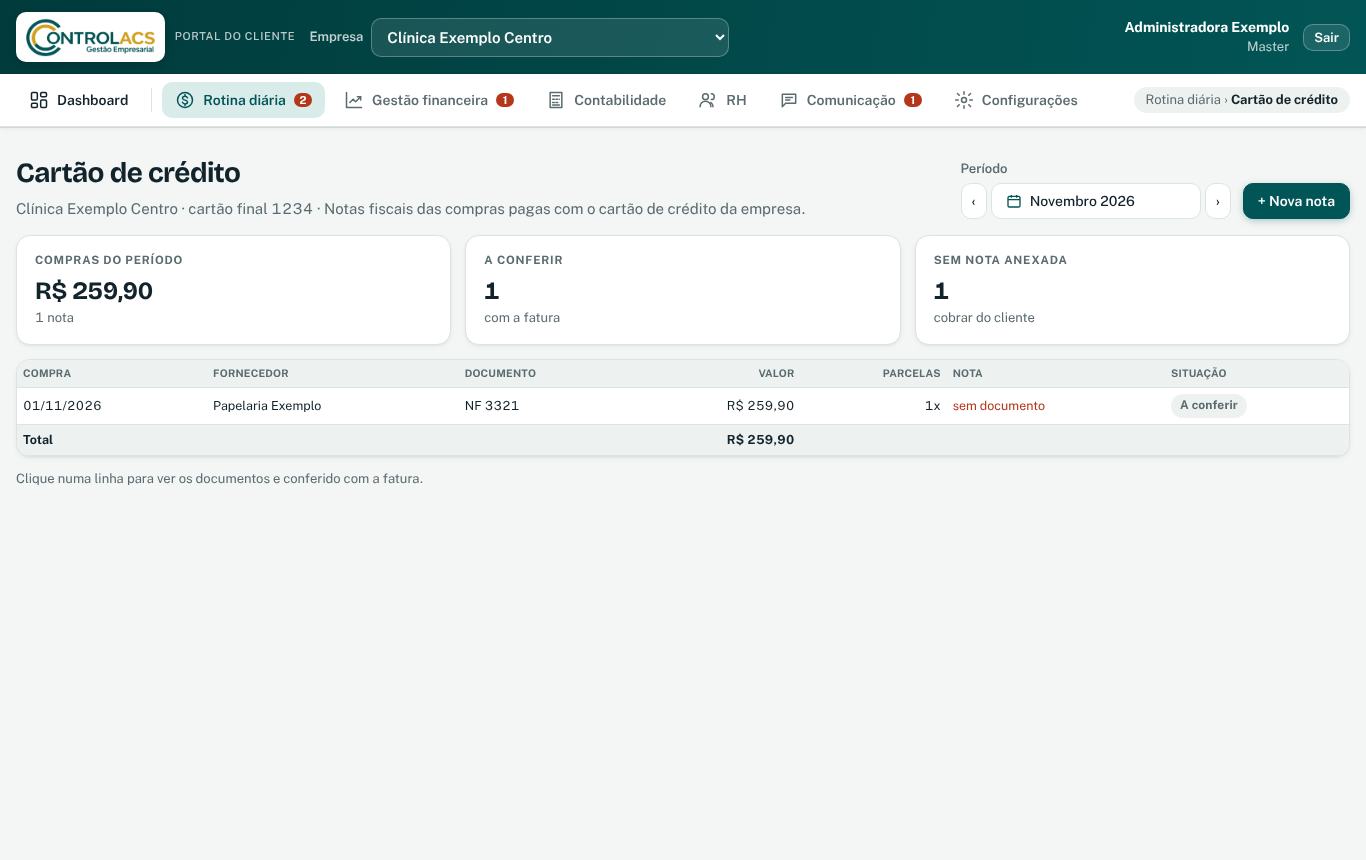
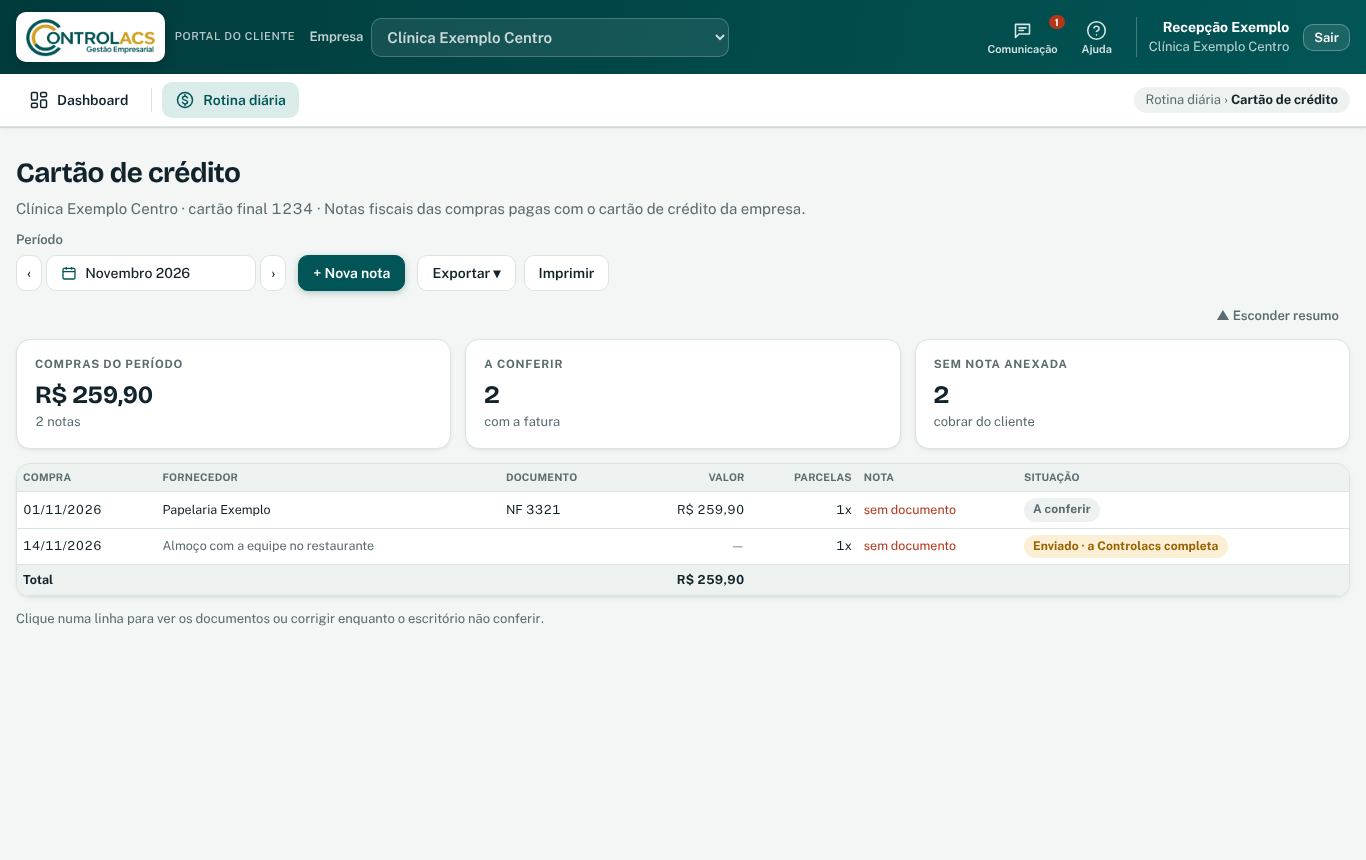
Cartão de crédito: envio simples pelo cliente (só a nota/cupom e a descrição)
Data, fornecedor, nº, valor e parcelas ficam opcionais para o cliente; a fatura
só traz notas com valor. Novidades e Manual atualizados.

Claude-Session: https://claude.ai/code/session_018HCFQnt7a9XNEbxXwtv9qF

diff --git a/index.html b/index.html
@@ -3402,7 +3402,8 @@ const MODCFG={
 };
 let MOD=null, REGS=[], DOCS={}, REG=null, RDOCS=[];
 // envio simples dos boletos e notas a pagar: vale para quem não é do escritório, em todas as empresas
-const pagSimples=()=>MOD==='pagar'&&!ehEsc();
+// cartão de crédito também (Carol, 16/11): o cliente só anexa a nota ou o cupom e diz do que se trata
+const pagSimples=()=>(MOD==='pagar'||MOD==='cartao')&&!ehEsc();
 const SIMP_DICA='Diga do que se trata a despesa: o que foi comprado ou qual serviço, de quem e de qual mês ou parcela, se souber. Isso ajuda a Controlacs a achar a conta certa.';
 const dBRv=s=>s?dBR(s):'—';
 const mFiltro=$('mFiltro');
@@ -3465,7 +3466,7 @@ async function renderMod(){
     tiles=[['A pagar',fm(sum(ab)),ab.length+' conta'+(ab.length===1?'':'s')],['Vencem em 7 dias',fm(sum(sem)),sem.length+' conta'+(sem.length===1?'':'s')],['Vencidas',fm(sum(venc)),venc.length?'pague ou fale com o cliente':'nenhuma'],['Pagas',fm(sum(REGS.filter(r=>r.conferido))),f==='aberto'?'escolha um mês para ver':f==='todos'?'de tudo o que foi enviado':'no mês']];
   }else if(MOD==='cartao'){
     head='<tr><th>Compra</th><th class="l">Fornecedor</th><th class="l">Documento</th><th>Valor</th><th>Parcelas</th><th class="l">Nota</th><th class="l">Situação</th></tr>';
-    body=REGS.map(r=>`<tr class="click" data-id="${r.id}" tabindex="0"><td>${dBR(r.data)}</td><td class="l">${esc(r.fornecedor)}${empC(r)}</td><td class="l">${esc(r.documento)}</td><td>${fm(r.valor)}</td><td>${r.parcelas}x</td><td class="l">${clip(r)}</td><td class="l">${r.conferido?'<span class="chip c-done">✓ Conferido</span>':'<span class="chip c-none">A conferir</span>'}</td></tr>`).join('');
+    body=REGS.map(r=>`<tr class="click" data-id="${r.id}" tabindex="0"><td>${dBR(r.data)}</td><td class="l">${r.fornecedor?esc(r.fornecedor):`<span class="muted">${esc(r.sobre||'—')}</span>`}${empC(r)}</td><td class="l">${esc(r.documento||'')}</td><td>${r.valor==null?'<span class="muted">—</span>':fm(r.valor)}</td><td>${r.parcelas}x</td><td class="l">${clip(r)}</td><td class="l">${r.conferido?'<span class="chip c-done">✓ Conferido</span>':r.valor==null?'<span class="chip c-warn" title="A Controlacs confere com a fatura e completa o valor">Enviado · a Controlacs completa</span>':'<span class="chip c-none">A conferir</span>'}</td></tr>`).join('');
     foot=REGS.length?`<tr><td>Total</td><td></td><td></td><td>${fm(sum(REGS))}</td><td colspan="3"></td></tr>`:'';
     tiles=[['Compras do período',fm(sum(REGS)),REGS.length+' nota'+(REGS.length===1?'':'s')],['A conferir',String(REGS.filter(r=>!r.conferido).length),'com a fatura'],['Sem nota anexada',String(REGS.filter(r=>!nd(r)).length),'cobrar do cliente']];
   }else{
@@ -3560,14 +3561,15 @@ async function openReg(r,pre){
     if(tp==='contaDest')return `<label class="f" data-dep>${lab.replace(' (opcional)','')}<input data-k="${k}" list="contasDest" value="${esc(r?v(k)||'':regCli()?.conta_deposito_bc||'')}" placeholder="Ex.: Sicredi - MPA Palmas"${dis}></label><datalist id="contasDest">${[...new Set([regCli()?.conta_deposito_bc,...REGS.map(x=>x.conta_destino),...MAPA.map(m=>m.conta)].filter(Boolean))].map(c=>`<option value="${esc(c)}">`).join('')}</datalist>`;
     // boleto: colar a linha digitável (ou anexar o PDF) preenche valor e vencimento; a chave da NF-e vai junto, escondida
     if(tp==='linha')return `<label class="f wide">${lab}<input data-k="${k}" inputmode="numeric" value="${esc(v(k)||'')}" placeholder="Cole aqui, ou anexe o boleto em PDF, que o valor e o vencimento são preenchidos sozinhos"${dis}><input type="hidden" data-k="nfe_chave" value="${esc(r?.nfe_chave||'')}"></label>${simp?'':'<div class="note wide" id="rLeitura" style="margin-top:-6px"></div>'}`;
-    if(tp==='sobre')return simp?`<label class="f wide">${lab}<textarea data-k="${k}" rows="2" placeholder="Ex.: conta de luz de outubro da loja; material de limpeza; conserto do ar-condicionado da recepção"${dis}>${esc(v(k)||'')}</textarea></label><p class="note wide" style="margin:-6px 0 0">${SIMP_DICA}</p>`
+    if(tp==='sobre')return simp?`<label class="f wide">${lab}<textarea data-k="${k}" rows="2" placeholder="${MOD==='cartao'?'Ex.: material de escritório na papelaria; almoço com a equipe; peça para a impressora':'Ex.: conta de luz de outubro da loja; material de limpeza; conserto do ar-condicionado da recepção'}"${dis}>${esc(v(k)||'')}</textarea></label><p class="note wide" style="margin:-6px 0 0">${SIMP_DICA}</p>`
       :`<label class="f wide">${lab}<input data-k="${k}" value="${esc(v(k))}" placeholder="Ex.: conta de luz, material de limpeza, conserto do ar-condicionado"${dis}></label>`;
     return `<label class="f">${lab}<input data-k="${k}" type="${tp==='date'?'date':'text'}" value="${esc(v(k)||'')}"${dis}></label>`;
   };
   // cliente nos boletos e notas a pagar: só anexa e diz do que se trata; o resto é opcional e a Controlacs completa (Carol, 04/11)
-  $('rFields').innerHTML=simp?`<p class="note wide" style="margin:0">Anexe o <b>boleto</b> e/ou a <b>nota fiscal</b> logo abaixo e escreva do que se trata. Não precisa preencher mais nada: a Controlacs confere, procura se a conta já está lançada (ou se é recorrente) e completa o resto.</p>`
+  $('rFields').innerHTML=simp?(MOD==='cartao'?`<p class="note wide" style="margin:0">Anexe a <b>nota fiscal</b> ou o <b>cupom</b> da compra logo abaixo e escreva do que se trata. Não precisa preencher mais nada: a Controlacs confere com a fatura do cartão e completa o resto.</p>`
+      :`<p class="note wide" style="margin:0">Anexe o <b>boleto</b> e/ou a <b>nota fiscal</b> logo abaixo e escreva do que se trata. Não precisa preencher mais nada: a Controlacs confere, procura se a conta já está lançada (ou se é recorrente) e completa o resto.</p>`)
     +campo(cfg.campos.find(c=>c[0]==='sobre'))
-    +`<details class="wide"${r&&(r.fornecedor||r.valor)?' open':''}><summary class="note" style="cursor:pointer">Outros dados do boleto (opcional): linha digitável, fornecedor, nº da nota, vencimento, valor</summary><div class="fields" style="margin-top:10px">${cfg.campos.filter(c=>c[0]!=='sobre').map(campo).join('')}</div></details><div class="note wide" id="rLeitura"></div>`
+    +`<details class="wide"${r&&(r.fornecedor||r.valor)?' open':''}><summary class="note" style="cursor:pointer">${MOD==='cartao'?'Outros dados da compra (opcional): data, fornecedor, nº da nota, valor, parcelas':'Outros dados do boleto (opcional): linha digitável, fornecedor, nº da nota, vencimento, valor'}</summary><div class="fields" style="margin-top:10px">${cfg.campos.filter(c=>c[0]!=='sobre').map(campo).join('')}</div></details><div class="note wide" id="rLeitura"></div>`
     :cfg.campos.map(campo).join('');
   // fornecedor: sugere os nomes do cadastro único de clientes e fornecedores (vale para todas as empresas; v101)
   pesListaLiga($('rFields'));
@@ -3612,6 +3614,7 @@ $('rForm').addEventListener('submit',async e=>{
   if(MOD==='tesouraria'){if(row.tipo==='Depósito bancário'){row.descricao='Depósito bancário'+(row.conta_destino?' - '+row.conta_destino:'');if(!row.conta_destino)m='Informe o banco de destino do depósito.'}else delete row.conta_destino}
   const simp=pagSimples(),falta=!m&&cfg.campos.find(([k,,,req])=>(simp?k==='sobre':req)&&(row[k]==null||row[k]===''));
   if(falta)m=simp?'Escreva do que se trata esta despesa.':'Preencha: '+falta[1]+'.';
+  else if(simp&&MOD==='cartao'&&!row.data)row.data=TODAY;   // data da compra: se ficou em branco, vale a do envio
   else if(Number.isNaN(row.valor)||!(row.valor>0)&&!(simp&&row.valor==null))m='O valor precisa ser um número maior que zero, por exemplo 1.234,56.';
   else if(MOD!=='tesouraria'&&cfg.precisaDoc(row)&&!RDOCS.length)m=cfg.precisaDoc(row);
   if(MOD==='pagar'){liqLer();const l=(RLIQ||[]).filter(x=>x.nome||x.valor);
@@ -3639,6 +3642,7 @@ $('rForm').addEventListener('submit',async e=>{
     if(e1&&/titulo_id|valor_previsto/.test(e1.message||'')){delete row.titulo_id;delete row.valor_previsto;({data:sv,error:e1}=await sb.from(cfg.tabela).upsert(row).select().single())}
     if(e1&&/liquidos/.test(e1.message||'')){delete row.liquidos;({data:sv,error:e1}=await sb.from(cfg.tabela).upsert(row).select().single());if(!e1)toast('Conta salva sem o relatório de líquidos: rode a atualização v54 do banco.')}
     // banco ainda sem o v99: o envio simples precisa que fornecedor, nº, vencimento e valor possam ficar em branco
+    if(e1&&/not-null|null value/i.test(e1.message||'')&&MOD==='cartao'){err.textContent=ehEsc()?'Rode a atualização v137 do banco para salvar a nota do cartão sem fornecedor, nº ou valor.':'Preencha também o fornecedor, o nº da nota e o valor (em “Outros dados”). O envio só com o anexo será liberado em breve.';err.hidden=false;return}
     if(e1&&/not-null|null value/i.test(e1.message||'')&&MOD==='pagar'){err.textContent=ehEsc()?'Rode a atualização v99 do banco para salvar sem fornecedor, nº, vencimento ou valor.':'Preencha também o fornecedor, o nº da nota, o vencimento e o valor (em “Outros dados”). O envio só com o anexo será liberado em breve.';err.hidden=false;return}
     if(e1&&/BOLETO_REPETIDO/.test(e1.message||'')){err.textContent='Este boleto já está lançado em outra conta a pagar. Confira se é o boleto certo desta empresa.';err.hidden=false;return}
     if(e1)throw e1;
@@ -9924,14 +9928,16 @@ async function ftAcao(a){
 }
 // notas do cartão enviadas pelo cliente (Financeiro › Cartão de crédito) que ainda não estão em nenhuma fatura
 $('ftImp').onclick=async()=>{
-  const c=FT.conta,cli=cliAtual(),ls=FT.notas;if(!c||!ls.length)return;
+  const c=FT.conta,cli=cliAtual(),semV=FT.notas.filter(r=>!(+r.valor>0)),ls=FT.notas.filter(r=>+r.valor>0);if(!c)return;
+  // envio simples do cliente: a nota sem valor fica esperando o escritório completar (Rotina diária › Cartão de crédito)
+  if(!ls.length)return toast(semV.length?`${semV.length===1?'A nota enviada está':'As notas enviadas estão'} sem valor. Abra em Rotina diária › Cartão de crédito, complete e traga de novo.`:'Nada para trazer.');
   const rows=[],fora=[];
   ls.forEach(r=>{const n=Math.max(1,r.parcelas||1),cada=Math.floor(r.valor/n*100)/100,f1=faturaDe(c,r.data),g=n>1?crypto.randomUUID():null;
     const ps=[...Array(n).keys()].map(i=>({cliente_id:cli.id,conta_id:c.id,tipo:'saida',data:somaMes(r.data,i),valor:i===n-1?r2(r.valor-cada*(n-1)):cada,fatura:somaMes(f1,i),parcela:i+1,parcelas:n,grupo_id:g,
-      pessoa_nome:r.fornecedor,documento:r.documento||null,categoria:r.categoria||null,descricao:r.obs||null,cartao_nota_id:r.id}));
+      pessoa_nome:r.fornecedor,documento:r.documento||null,categoria:r.categoria||null,descricao:r.obs||r.sobre||null,cartao_nota_id:r.id}));
     if(ps.some(x=>ftFechada(x.fatura)))fora.push(r);else rows.push(...ps)});
   if(!rows.length)return toast('As notas enviadas caem em faturas já fechadas. Lance à mão na fatura aberta.');
-  if(!confirm(`Trazer ${ls.length-fora.length} ${ls.length-fora.length===1?'nota enviada':'notas enviadas'} pelo cliente para o cartão ${c.nome}? Cada uma cai na fatura certa pela data da compra, com as parcelas.${fora.length?` ${fora.length} ficam de fora porque caem em fatura já fechada.`:''}`))return;
+  if(!confirm(`Trazer ${ls.length-fora.length} ${ls.length-fora.length===1?'nota enviada':'notas enviadas'} pelo cliente para o cartão ${c.nome}? Cada uma cai na fatura certa pela data da compra, com as parcelas.${fora.length?` ${fora.length} ficam de fora porque caem em fatura já fechada.`:''}${semV.length?` ${semV.length} ${semV.length===1?'fica':'ficam'} de fora porque o cliente mandou sem valor: complete em Rotina diária › Cartão de crédito.`:''}`))return;
   $('ftImp').disabled=true;
   const {error}=await sb.from('fin_movimentos').insert(rows);$('ftImp').disabled=false;
   if(error){console.error(error);return toast(v52(error)?v52Msg:'Não foi possível trazer as notas.')}
@@ -13106,9 +13112,10 @@ const MANUAL=[
       txt:`<p>As notas fiscais das compras pagas com o cartão de crédito da empresa.</p>
 <ol>
 <li>Clique em <b>+ Nova nota</b>.</li>
-<li>Informe a data da compra, o fornecedor, do que se trata, o nº da NF ou do cupom, o valor total e as parcelas.</li>
-<li>Anexe a nota fiscal da compra e salve.</li>
+<li>Em <b>Do que se trata esta despesa</b>, escreva o que foi comprado e de quem.</li>
+<li>Anexe a nota fiscal ou o cupom da compra e salve. Não precisa preencher mais nada.</li>
 </ol>
+<p>Se quiser, abra <b>Outros dados da compra (opcional)</b> para informar a data, o fornecedor, o nº da nota, o valor e as parcelas. Enquanto a Controlacs não completa, a nota aparece como <span class="chip c-warn">Enviado · a Controlacs completa</span>. O escritório continua vendo e editando todos os campos e, em Fatura do cartão, só traz as notas que já têm valor.</p>
 <p>Os quadros mostram as compras do período, o que falta conferir com a fatura e as compras sem nota anexada (essas precisam ser cobradas). O escritório marca cada compra como conferida com a fatura.</p>`}]},
   {g:'Gestão financeira',itens:[
     {k:'gfpagar',t:'Contas a pagar e a receber',
@@ -13854,6 +13861,9 @@ $('ctConteudo').addEventListener('dragend',e=>{e.target.closest?.('.crmcard')?.c
 $('ctConteudo').addEventListener('dragover',e=>{const col=e.target.closest('#crmBoard .kcol');if(!col||!CRM.drag)return;e.preventDefault();document.querySelectorAll('#crmBoard .kcol.over').forEach(x=>x!==col&&x.classList.remove('over'));col.classList.add('over')});
 $('ctConteudo').addEventListener('drop',e=>{const col=e.target.closest('#crmBoard .kcol');if(!col||!CRM.drag)return;e.preventDefault();col.classList.remove('over');const o=CRM.op.find(x=>x.id===CRM.drag);CRM.drag=null;crmMuda(o,col.dataset.crmcol)});
 const NOVIDADES=[
+  {k:'2026-11-16cart',data:'2026-11-16',t:'Cartão de crédito: envio simples pelo cliente',itens:[
+    {x:'Rotina diária › Cartão de crédito: agora basta anexar a nota fiscal ou o cupom e escrever do que se trata. Data, fornecedor, nº da nota, valor e parcelas ficam opcionais em “Outros dados da compra”: a Controlacs completa.',mods:['cartao']},
+    {x:'Fatura do cartão: “Trazer notas enviadas” só traz as que já têm valor. As que o cliente mandou sem valor ficam esperando: complete em Rotina diária › Cartão de crédito.',para:'esc'}]},
   {k:'2026-11-15movbc',data:'2026-11-15',t:'Movimentação financeira, Contas a pagar e a receber no modelo do Bom Controle',itens:[
     {x:'As três telas ficaram no mesmo modelo: colunas Parcela, Empresa (em Todas as empresas), Tipo, data, Cliente/Fornecedor com a descrição embaixo, Categoria, Conta e Valor. A Movimentação mostra entradas e saídas juntas; Contas a pagar só as despesas; Contas a receber só as receitas.',mods:['gfmov','gfpagar','gfrec']},
     {x:'Novos filtros: “Data por” (vencimento, pagamento ou competência), Empresas, Conta, Categoria, Anexos, Forma de pagamento e Conciliação. Os filtros que já existiam continuam.',mods:['gfmov','gfpagar','gfrec']},
